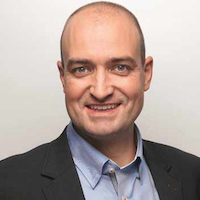
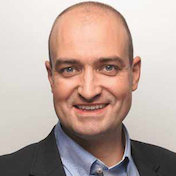
Better images for testimonials

diff --git a/content/data/testimonials/francesco-marinelli.md b/content/data/testimonials/francesco-marinelli.md
@@ -1,6 +1,7 @@
 ---
 templateKey: 'testimonial-data'
-avatar: img/francesco-marinelli.png
+avatar: img/francesco-marinelli.jpg
+
 statement: >-
   Das Apptiva Team hat mit seiner unkomplizierten Art eine sensationelle Arbeit geleistet. Die professionell umgesetzte Weblösung war die Grundlage für ein erfolgreiches Projekt.
 name: Francesco Marinelli
